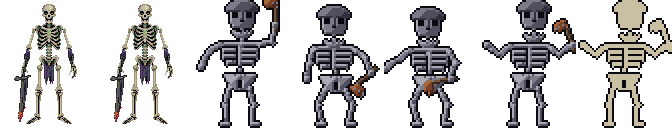
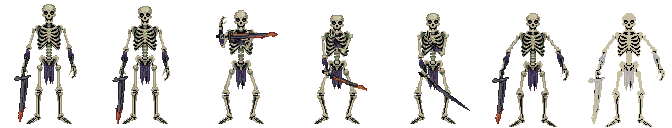
Finish the PixelLab skeleton guard: full 7-frame set
Idle sway, three attack frames and hurt/flash imported through the importer
(animate_image from the approved idle). Importer self-test no longer assumes
no real imports exist.

Changed region(s): [[0.4375, 0.0, 1.0, 1.0], [0.1562, 0.0, 0.4375, 1.0]]

diff --git a/tools/art/test_import_pixellab.py b/tools/art/test_import_pixellab.py
@@ -82,6 +82,10 @@ def all_in_palette(img):
 
 
 real_wall = (ART_DIR / "tiles/wall.png").read_bytes()
+# The real manifest and back-up folder may exist (real imports have been made): note them, and check afterwards they are unchanged.
+_MANIFEST = Path(__file__).resolve().parent / "imported.json"
+real_manifest_before = _MANIFEST.read_bytes() if _MANIFEST.exists() else None
+real_old_before = sorted(str(q) for q in imp.DEFAULT_OLD.rglob("*")) if imp.DEFAULT_OLD.exists() else None
 
 with tempfile.TemporaryDirectory() as t:
     tmp = make_world(Path(t))
@@ -185,7 +189,7 @@ with tempfile.TemporaryDirectory() as t:
         check("a tests' root override is never protected", not artio.is_protected("tiles/wall.png", root=tmp / "x"))
     finally:
         artio.IMPORTED_MANIFEST = real_manifest
-    check("the real art folder, back-ups and manifest were never touched by this test", (ART_DIR / "tiles/wall.png").read_bytes() == real_wall and not imp.DEFAULT_OLD.exists() and not real_manifest.exists())
+    check("the real art folder, back-ups and manifest were never touched by this test", (ART_DIR / "tiles/wall.png").read_bytes() == real_wall and (_MANIFEST.read_bytes() if _MANIFEST.exists() else None) == real_manifest_before and (sorted(str(q) for q in imp.DEFAULT_OLD.rglob("*")) if imp.DEFAULT_OLD.exists() else None) == real_old_before)
 
     # ---- restoring
     code, out = run(tmp, "--restore", "tiles/wall")
